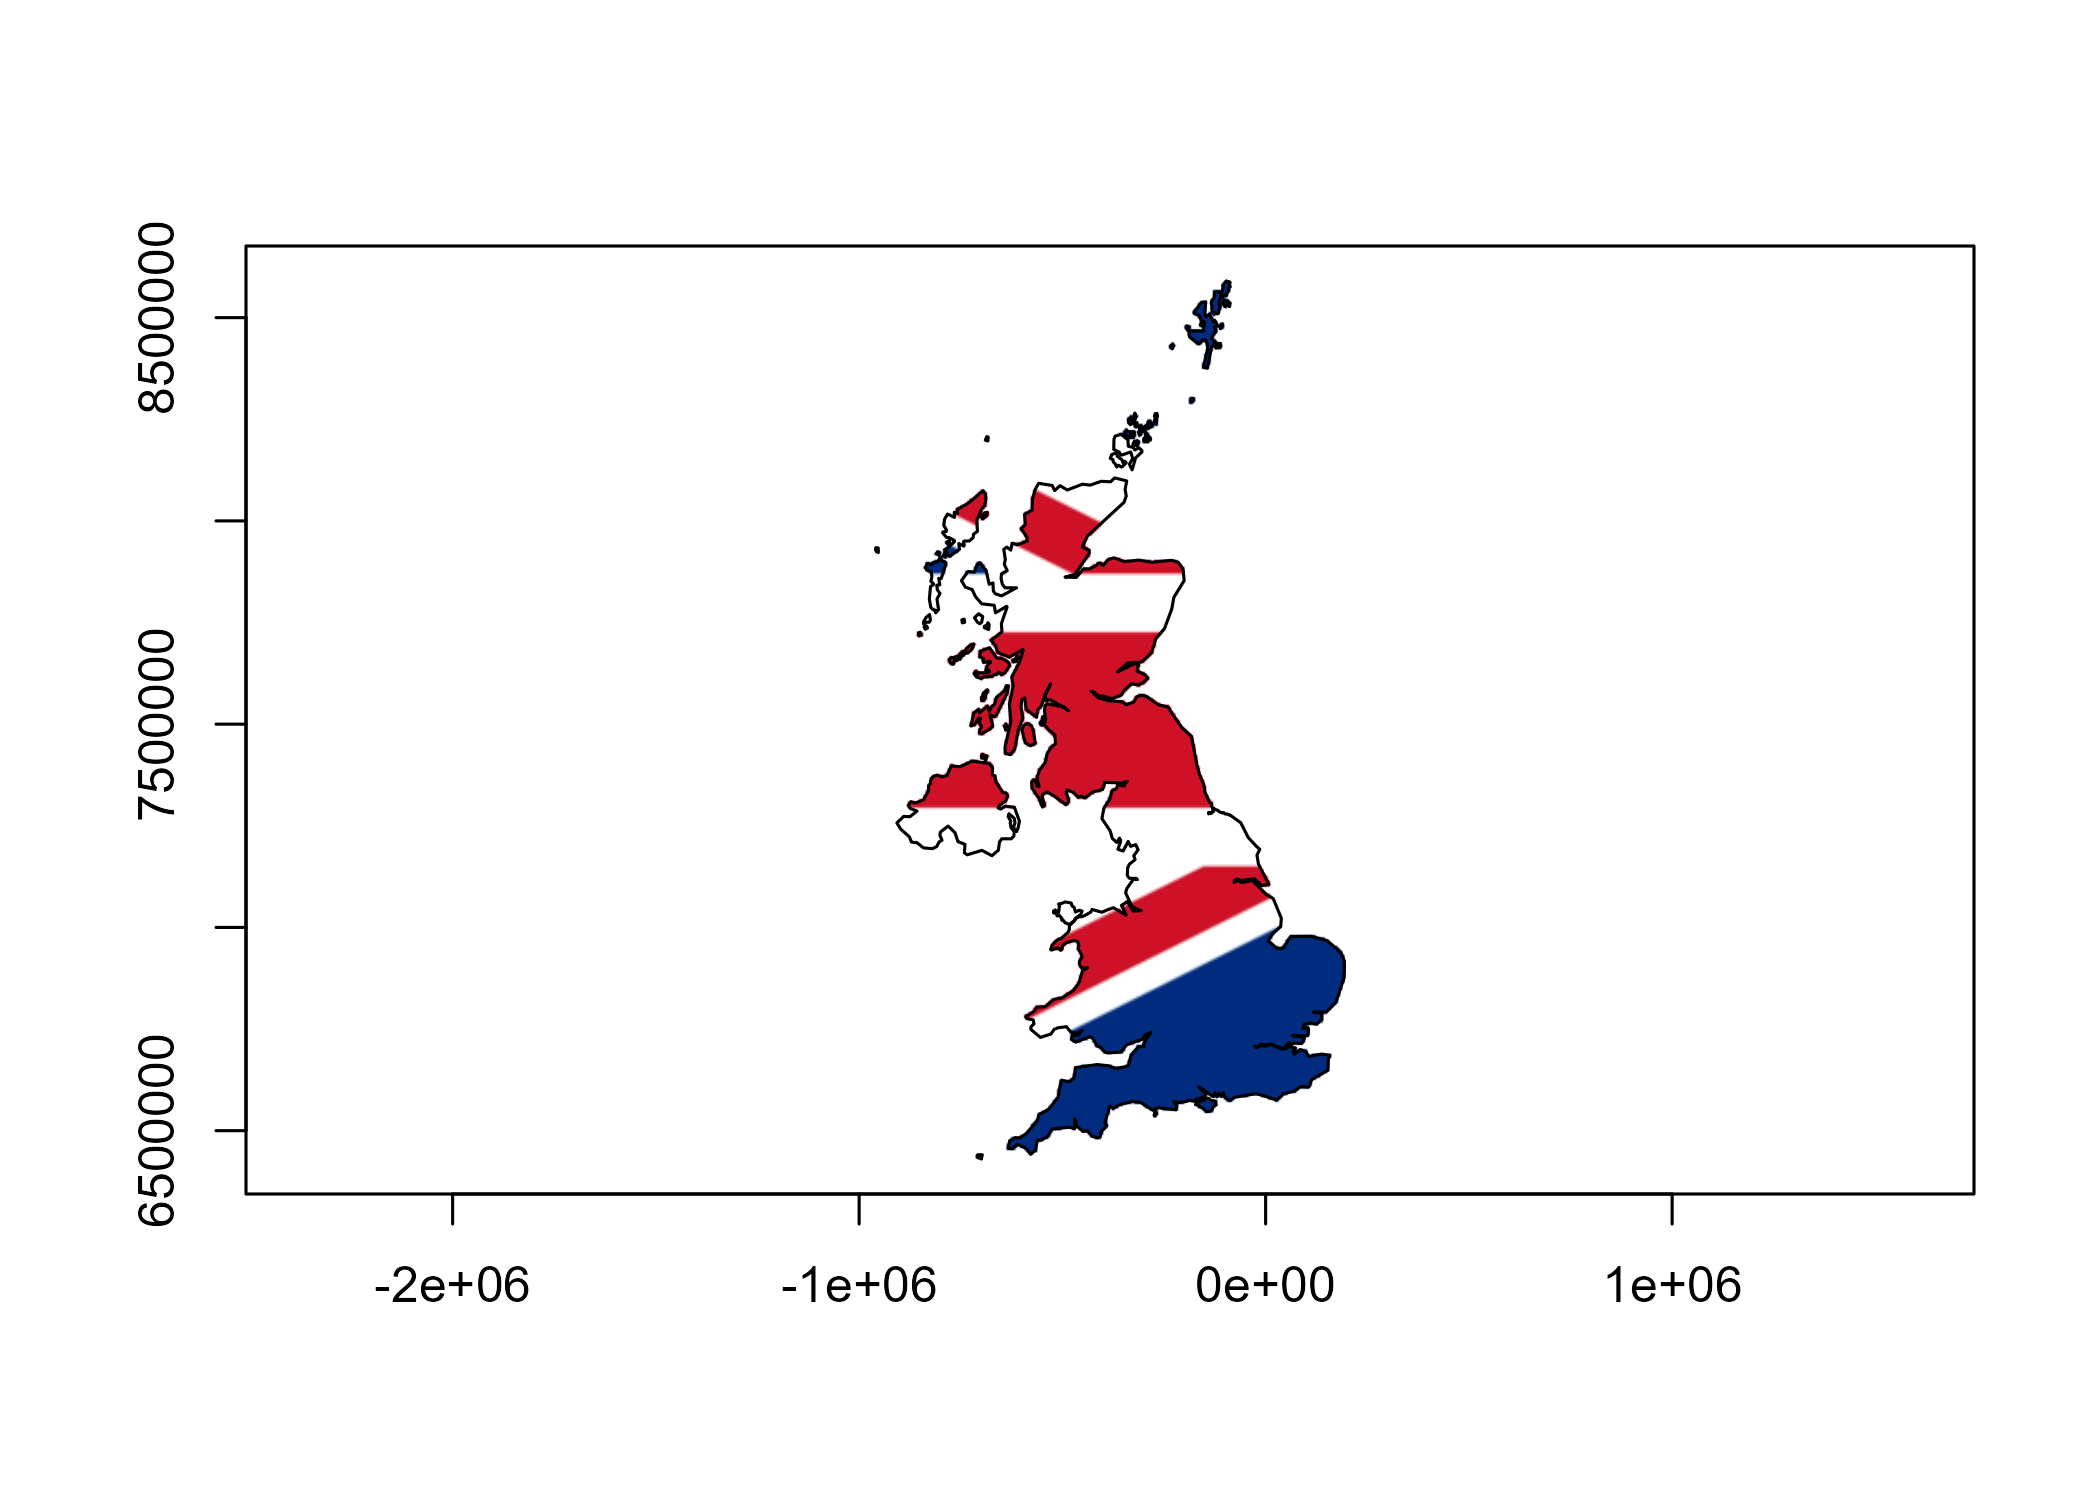
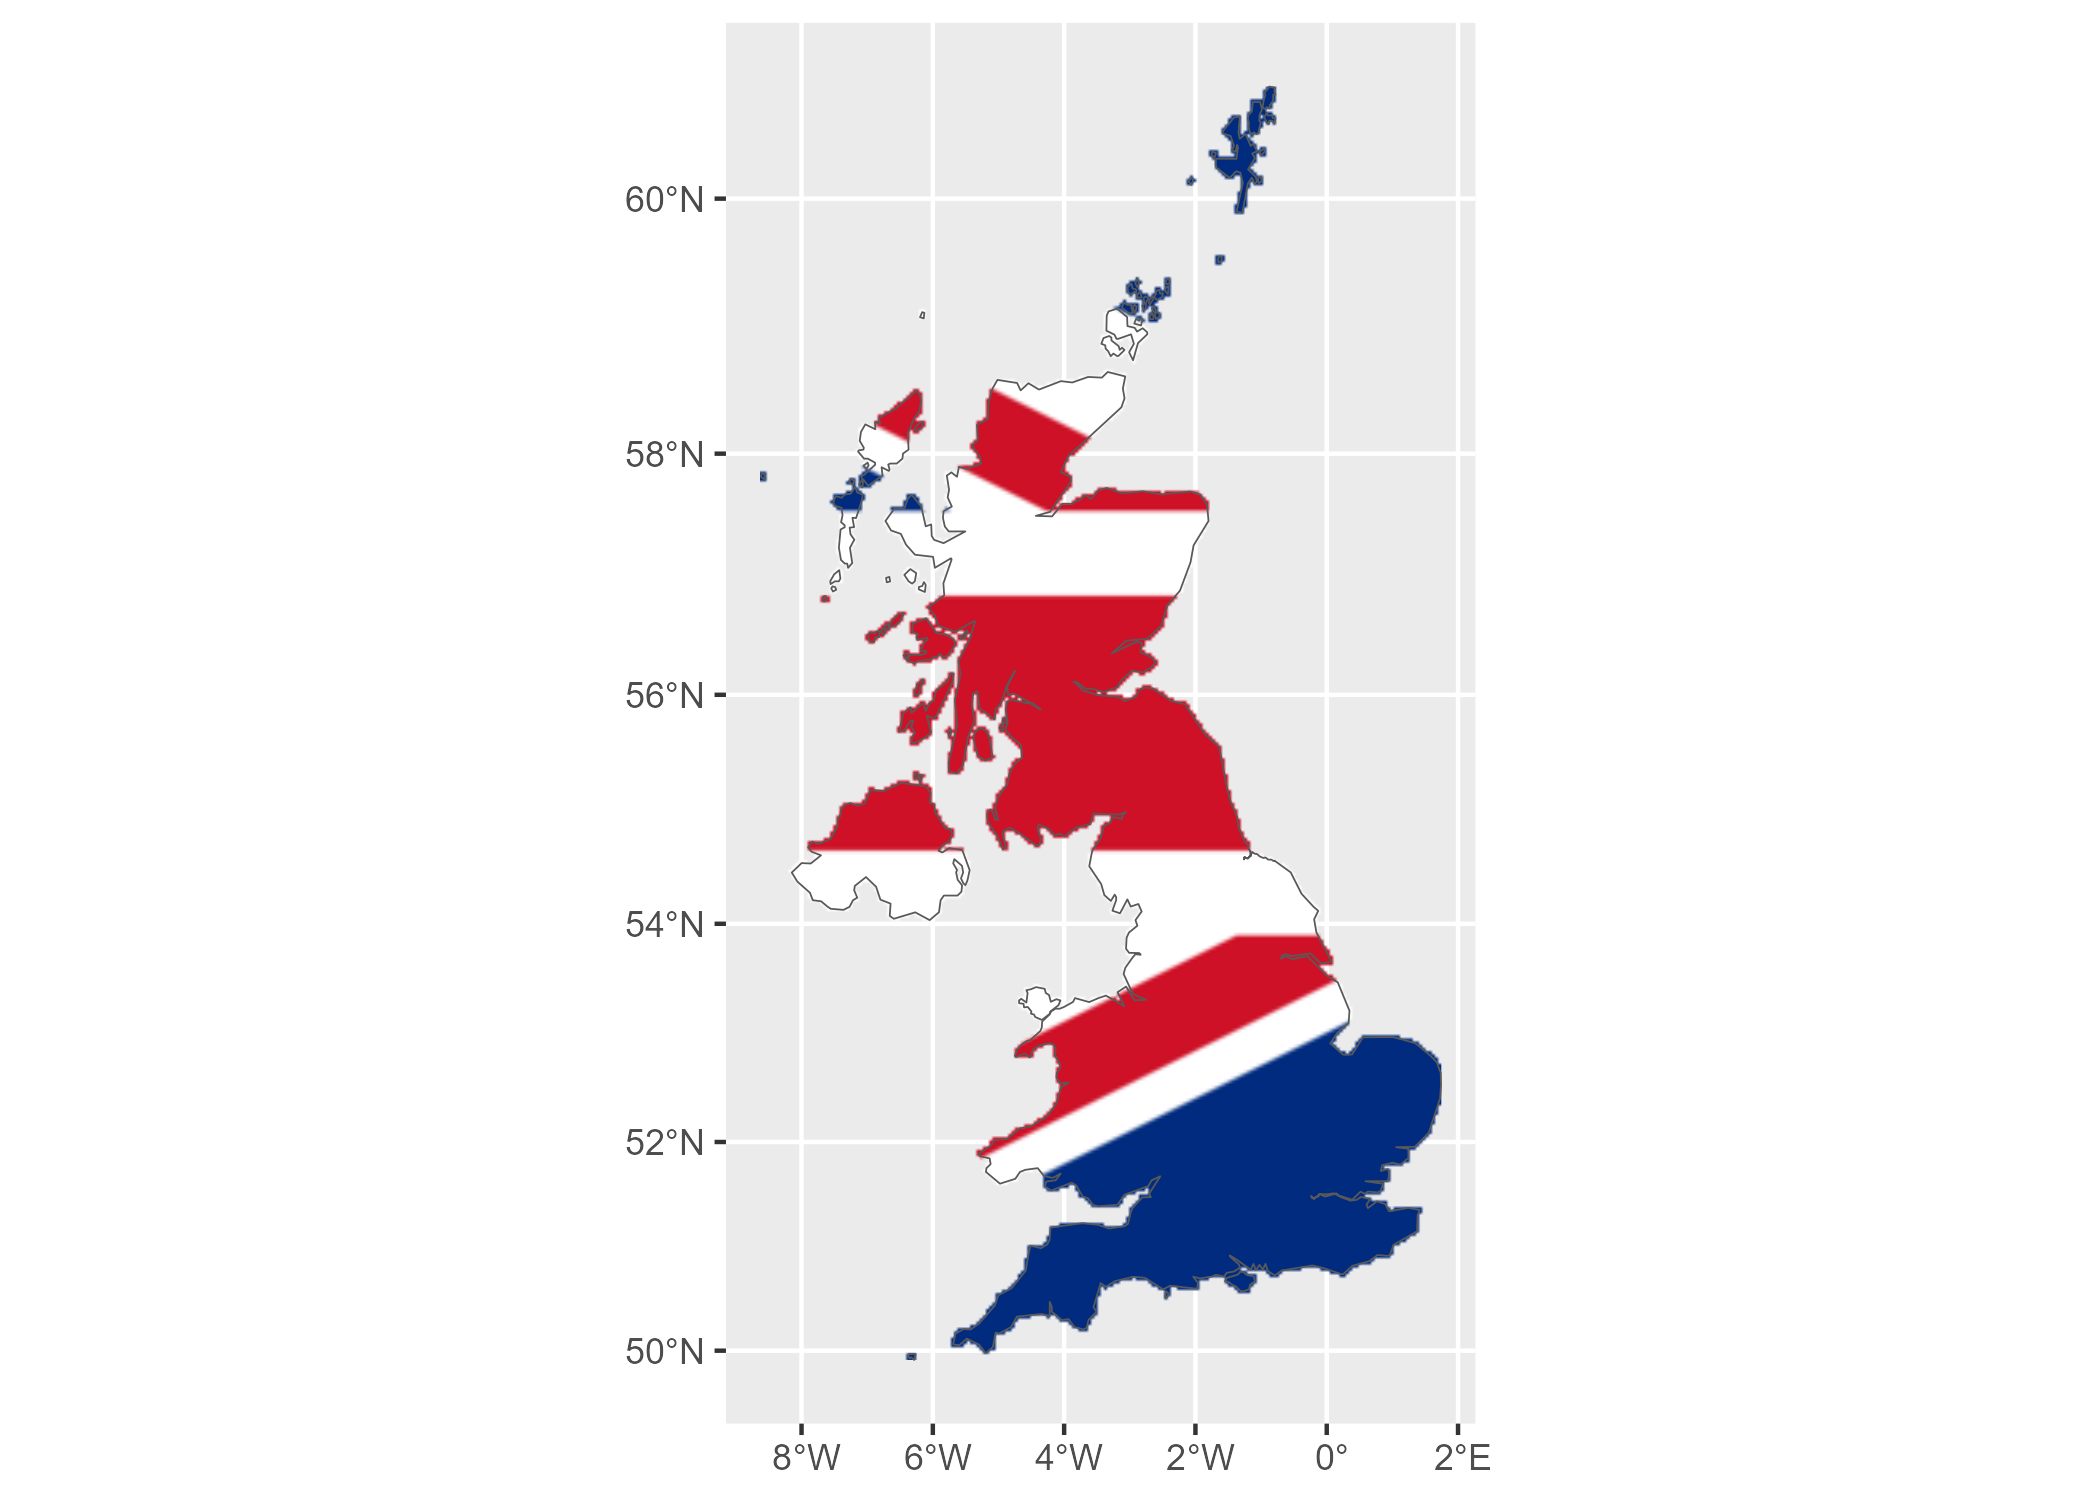
Improve colorize of raster

diff --git a/README.md b/README.md
@@ -70,15 +70,8 @@ library(sf)
 library(terra)
 
 # The flag of the United Kingdom
-img <- system.file("img/UK_flag.png",
-  package = "rasterpic"
-)
-uk <- st_read(
-  system.file("gpkg/UK.gpkg",
-    package = "rasterpic"
-  ),
-  quiet = TRUE
-)
+img <- system.file("img/UK_flag.png", package = "rasterpic")
+uk <- read_sf(system.file("gpkg/UK.gpkg", package = "rasterpic"))
 
 # Rasterize!
 uk_flag <- rasterpic_img(uk, img)
@@ -90,19 +83,18 @@ uk_flag
 #> extent      : -2542183, 1776472, 6430573, 8589900  (xmin, xmax, ymin, ymax)
 #> coord. ref. : WGS 84 / Pseudo-Mercator (EPSG:3857) 
 #> source(s)   : memory
+#> colors RGB  : 1, 2, 3 
 #> names       : lyr.1, lyr.2, lyr.3 
 #> min values  :     0,    13,    34 
 #> max values  :   255,   255,   255
 
 # Plot it!
+# Using ggplot2 + tidyterra
+library(tidyterra)
+library(ggplot2)
 
-plotRGB(uk_flag)
-plot(st_geometry(uk),
-  add = TRUE,
-  col = adjustcolor("blue",
-    alpha.f = 0.5
-  )
-)
+autoplot(uk_flag) +
+  geom_sf(data = uk, color = alpha("blue", 0.5))
 ```
 
 <img src="man/figures/README-example-basic-1.png" width="100%" />
@@ -114,25 +106,11 @@ alignment of the image with respect to the object:
 # Align, crop and mask
 uk_flag2 <- rasterpic_img(uk, img, halign = 0.2, crop = TRUE, mask = TRUE)
 
-plot(st_geometry(uk), axes = TRUE)
-plotRGB(uk_flag2, add = TRUE)
-plot(st_geometry(uk), col = NA, border = "black", add = TRUE)
+autoplot(uk_flag2) +
+  geom_sf(data = uk, fill = NA)
 ```
 
 <img src="man/figures/README-align-crop-mask-1.png" width="100%" />
-
-You can plot the rasters with **ggplot2** + **tidyterra**:
-
-``` r
-library(ggplot2)
-library(tidyterra)
-
-ggplot(uk) +
-  geom_spatraster_rgb(data = uk_flag2) +
-  geom_sf(fill = NA)
-```
-
-<img src="man/figures/README-example-ggplot-1.png" width="100%" />
 
 ## Image formats admitted
 

diff --git a/NEWS.md b/NEWS.md
@@ -6,6 +6,10 @@
 
 -   Fix typos on messages.
 
+-   Declares output as RGB raster with `terra::RGB()`.
+
+-   Add ggplot2 to "Suggests".
+
 # rasterpic 0.2.1
 
 -   Add **tidyterra** to 'Suggests'
